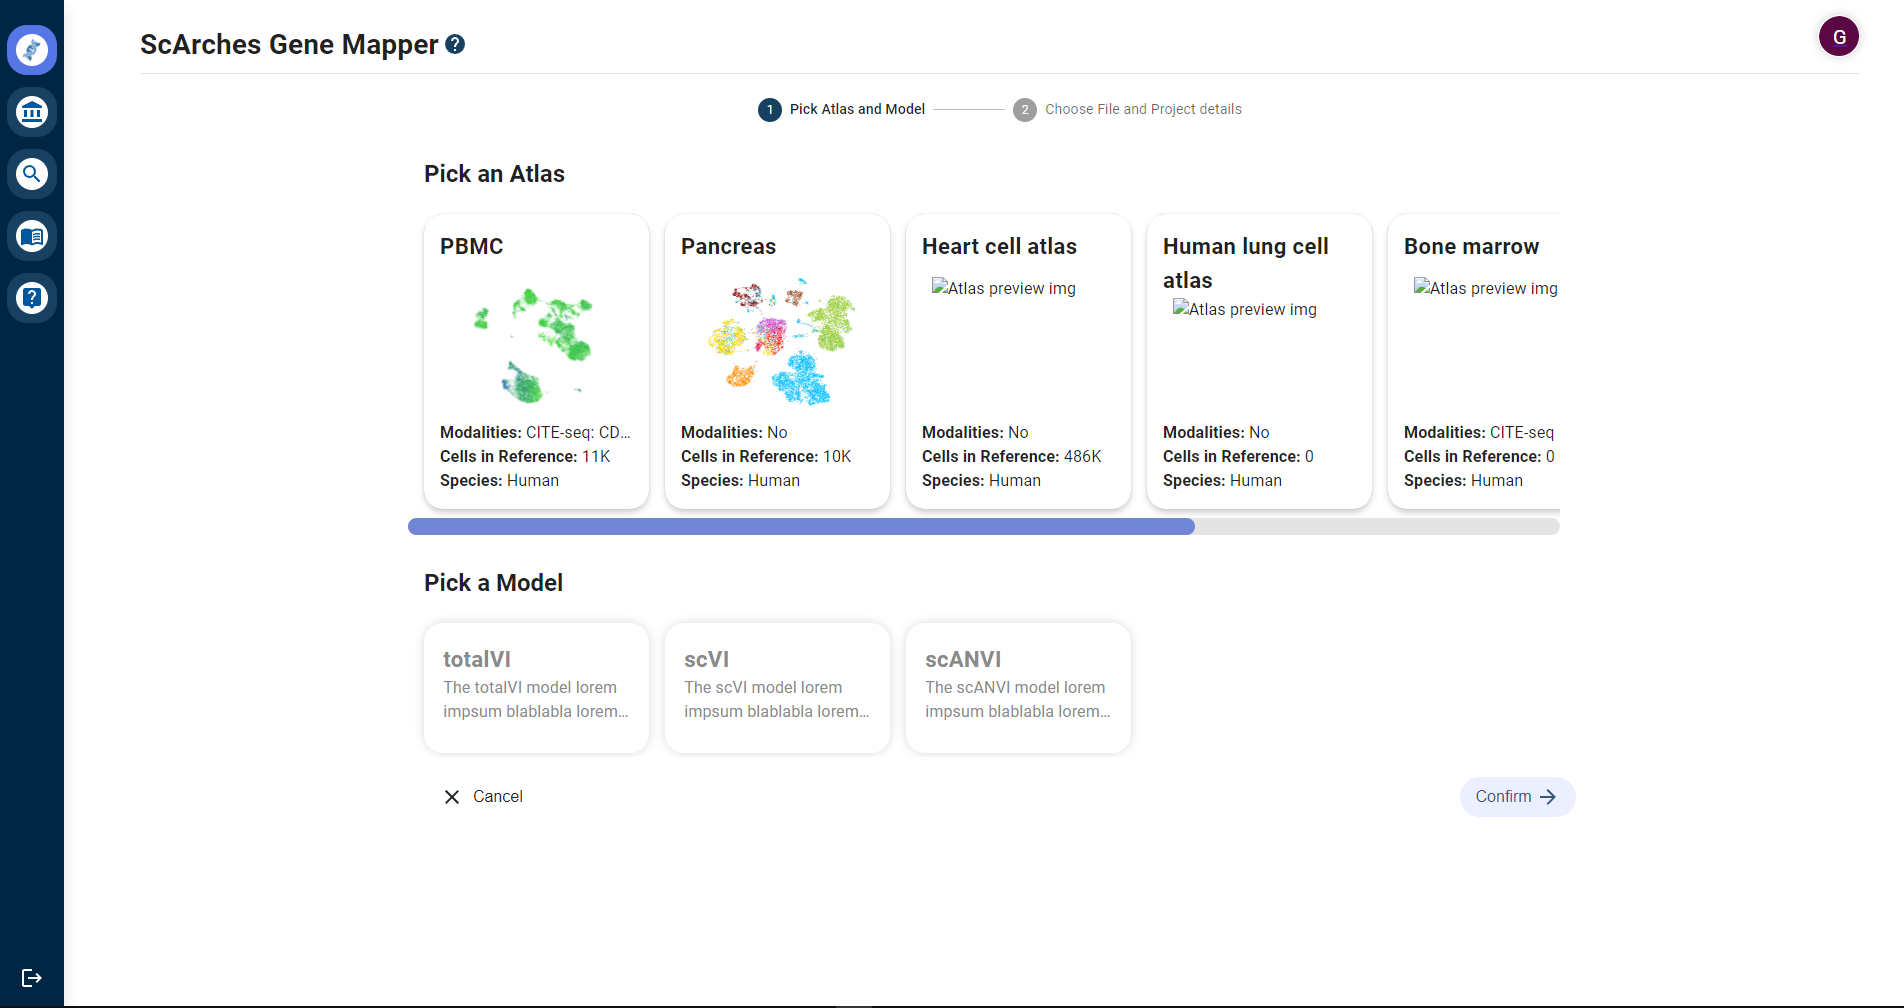
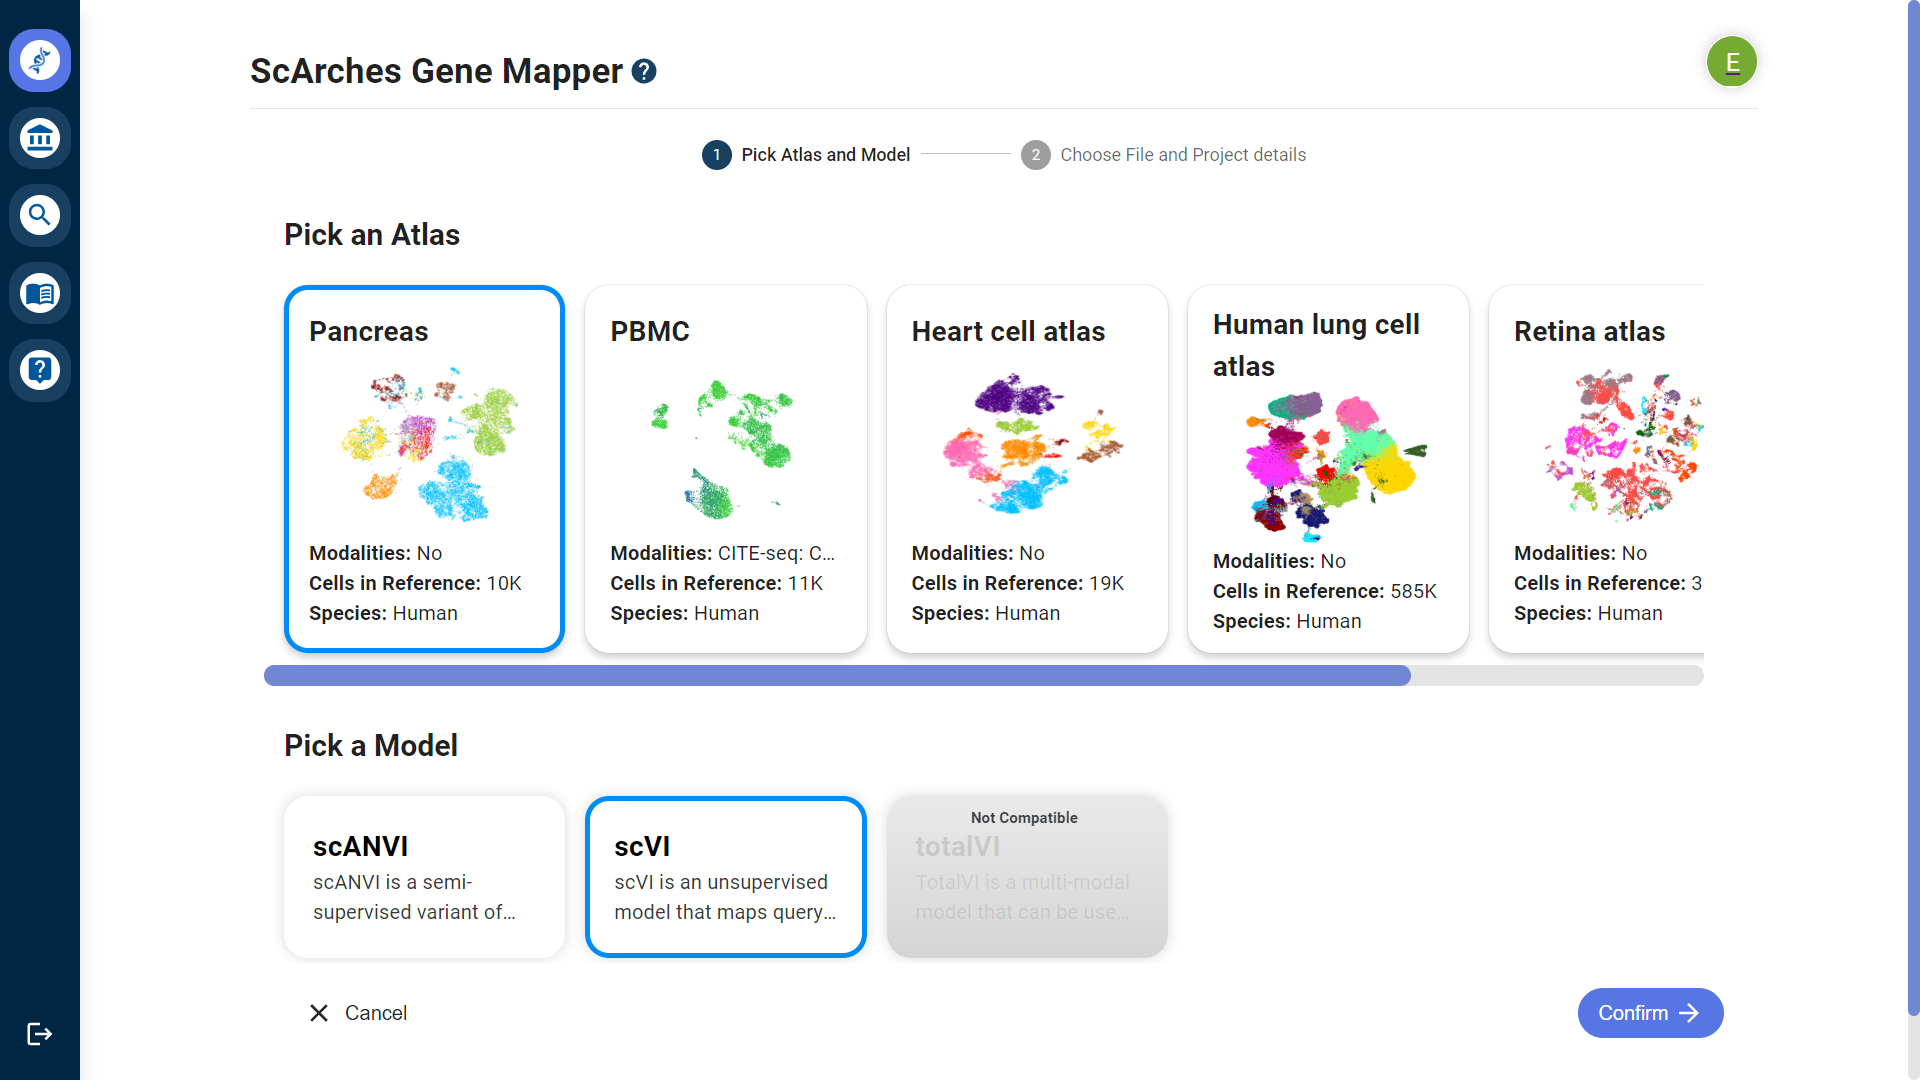
Updated screenshots and description for GeneMapper

diff --git a/docs/source/index.rst b/docs/source/index.rst
@@ -1,5 +1,5 @@
 Genecruncher Documentation
-=================
+============================
 
 Genecruncher helps you visualize all of your single-cell sequencing data in a fast and easy way using neural networks.
 The neural networking is done using the scArches package. More information about scArches can be found `here <https://scarches.readthedocs.io/en/latest/>`_.
@@ -11,19 +11,27 @@ First login or sign up using your academic affiliation.
 
 .. image:: _static/homepage.png
 
-Under the Gene Mapper all of your mappings are displayed. Click on the blue plus button to create a new one.
+Under the Gene Mapper all of your mappings are displayed. Click on the plus button to create a new one.
 
 .. image:: _static/mappings_dashboard.png
 
+On this page you should pick an Atlas and a model.
+Please note that some models are not compatible with some atlases. If so, they will be disabled. 
 Here the Atlas and model type are set, scVI for the Pancreas for example.
 
 .. image:: _static/new_mapping_1.png
 
-On the last page the query datasets are selected. Either upload your own or select one of the existing ones.
+On the last page the query datasets are selected. 
+Here you are able to review them and go back via the back button or by clicking on the step indicator should you change your mind.
+Right below that the consequent requirements are listed as a result of your choices.
+These requirements should be kept in mind if you wish to upload your own dataset, which could be done by drag-and-drop or by clicking on the upload field.
+Alternatively you could select one of the existing ones.
 
 .. image:: _static/new_mapping_2.png
 
 Click on "Create Mapping", give it an appropriate name and submit.
+You will then be forwarded back to the homepage where you could eventually review the result once it is done processing.
+Please note that it takes some time to process.
 
 A color-coded build status will appear with a progress bar. As soon as it's ready you can click on "See Results".
 
